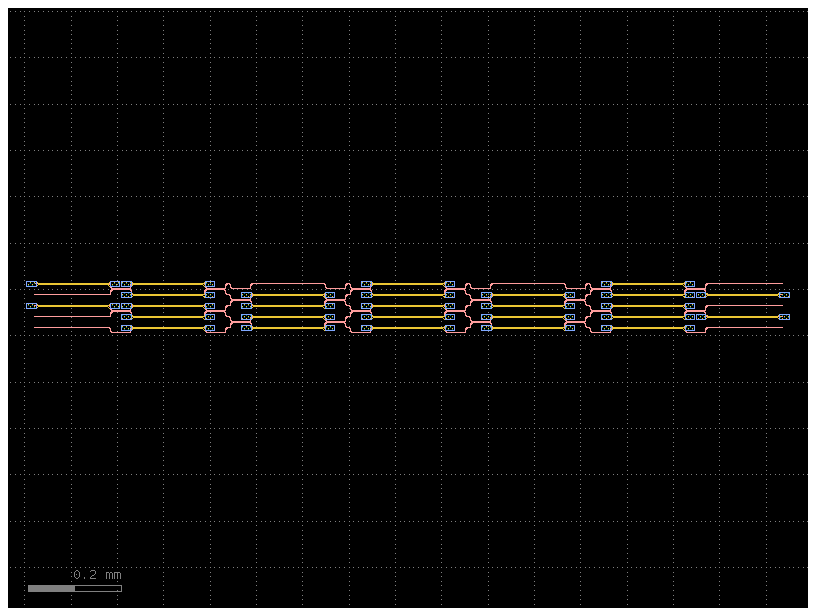
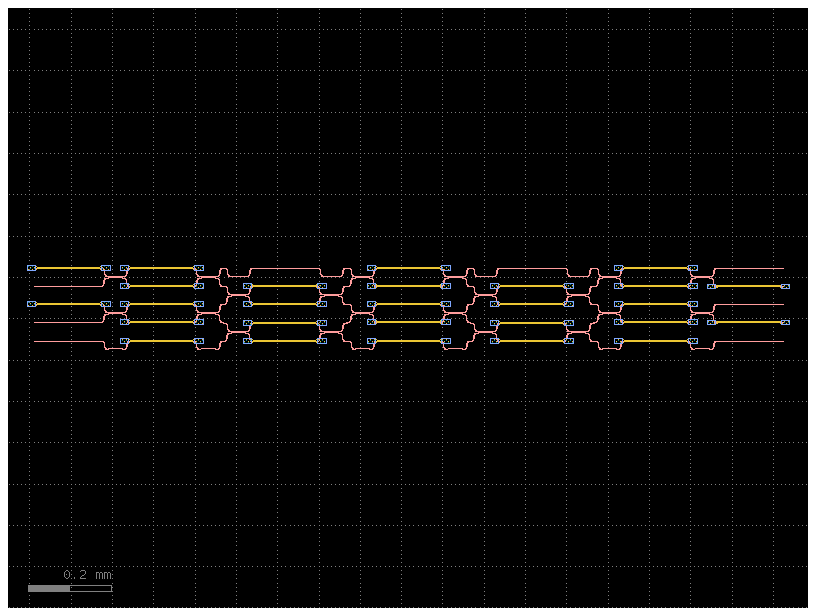
Release v0.0.13

Changed region(s): [[0.0306, 0.4318, 0.9804, 0.586], [0.0919, 0.9253, 0.1532, 0.9562]]

diff --git a/README.md b/README.md
@@ -82,9 +82,9 @@ Maximum Phase Error % =  8.080086688873948
 
 ### Clements Interferometer Logic Simulation
 ```sh
-mesh = Clements(dim)
+mesh = mi.Clements(dim)
 U = unitary_group.rvs(dim)
-simulation_result = sdict_to_matrix(mesh.ideal_emulate(U))
+simulation_result = mi.sdict_to_matrix(mesh.ideal_emulate(U))
 print('Circuit Matches Target Matrix =', np.allclose(U, simulation_result))
 ```
 ```text
